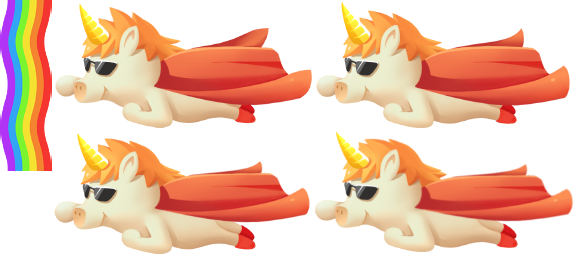
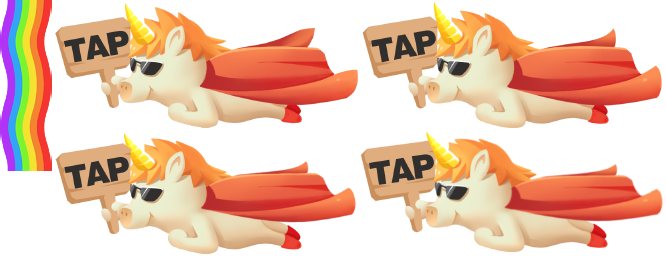
ad

diff --git a/Celer-Game2.0/assets/Scripts/Ad/AdLayer.ts b/Celer-Game2.0/assets/Scripts/Ad/AdLayer.ts
@@ -1,0 +1,152 @@
+// Learn TypeScript:
+//  - [Chinese] https://docs.cocos.com/creator/manual/zh/scripting/typescript.html
+//  - [English] http://www.cocos2d-x.org/docs/creator/manual/en/scripting/typescript.html
+// Learn Attribute:
+//  - [Chinese] https://docs.cocos.com/creator/manual/zh/scripting/reference/attributes.html
+//  - [English] http://www.cocos2d-x.org/docs/creator/manual/en/scripting/reference/attributes.html
+// Learn life-cycle callbacks:
+//  - [Chinese] https://docs.cocos.com/creator/manual/zh/scripting/life-cycle-callbacks.html
+//  - [English] http://www.cocos2d-x.org/docs/creator/manual/en/scripting/life-cycle-callbacks.html
+
+import { AdController } from "../Controller/AdController";
+import {
+  CnicornWatchFailSignal,
+  FlyCnicornClickSignal,
+  RemoveFlyCnicornSignal,
+} from "./FlyCnicornAd";
+import { HideWildAdButtonSignal, WildAdButtonClick } from "./WildAdButton";
+
+const { ccclass, property } = cc._decorator;
+
+enum AdType {
+  Cnicorn,
+  Sun,
+}
+@ccclass
+export default class AdLayer extends cc.Component {
+  @property(cc.SpriteAtlas)
+  AdAtlas: cc.SpriteAtlas = null;
+
+  get Panel() {
+    return this.node.getChildByName("NormalPanel");
+  }
+
+  get WatchAd() {
+    return this.Panel.getChildByName("btn_get");
+  }
+
+  get BackToGame() {
+    return this.Panel.getChildByName("btn_back");
+  }
+
+  get Content() {
+    return this.Panel.getChildByName("font_freeprop1").getComponent(cc.Sprite);
+  }
+
+  get SubContent() {
+    return this.Panel.getChildByName("font_freeprop2").getComponent(cc.Sprite);
+  }
+
+  get Title() {
+    return this.Panel.getChildByName("bg_title_freeprop").getComponent(
+      cc.Sprite
+    );
+  }
+
+  get FailTip() {
+    return this.node.getChildByName("FailTip");
+  }
+
+  onLoad() {
+    this.node.active = false;
+    this.node.scale = 1;
+
+    WildAdButtonClick.inst.addListener(() => {
+      this.Show(AdType.Sun);
+    }, this);
+
+    FlyCnicornClickSignal.inst.addListener(() => {
+      this.Show(AdType.Cnicorn);
+    }, this);
+
+    this.BackToGame.on(
+      cc.Node.EventType.TOUCH_END,
+      () => {
+        setTimeout(() => {
+          this.node.active = false;
+        }, 0);
+      },
+      this
+    );
+  }
+
+  onAdFinish(adUnitId: string) {
+    if (adUnitId == AdType[AdType.Sun]) {
+      CELER_X && HideWildAdButtonSignal.inst.dispatch();
+    } else {
+      CELER_X && RemoveFlyCnicornSignal.inst.dispatch();
+    }
+
+    setTimeout(() => {
+      this.node.active = false;
+    }, 0);
+  }
+
+  onAdFailed(adUnitId: string) {
+    this.FailTip.active = true;
+    this.Panel.active = false;
+    if (adUnitId == AdType[AdType.Cnicorn]) {
+      CnicornWatchFailSignal.inst.dispatch();
+    }
+    setTimeout(() => {
+      this.node.active = false;
+    }, 2000);
+  }
+
+  Show(type: AdType) {
+    if (this.node.active == true) return;
+    this.node.active = true;
+    this.FailTip.active = false;
+    this.Panel.active = true;
+    this.WatchAd.active = true;
+
+    if (type == AdType.Sun) {
+      this.Title.spriteFrame = this.AdAtlas.getSpriteFrame("bg_title_freeprop");
+      this.Content.spriteFrame = this.AdAtlas.getSpriteFrame("font_freeprop1");
+      this.SubContent.spriteFrame = this.AdAtlas.getSpriteFrame(
+        "font_freeprop2"
+      );
+      this.WatchAd.getComponent(
+        cc.Sprite
+      ).spriteFrame = this.AdAtlas.getSpriteFrame("btn_get");
+    } else {
+      this.Title.spriteFrame = this.AdAtlas.getSpriteFrame("font_title_clear");
+      this.Content.spriteFrame = this.AdAtlas.getSpriteFrame("font_clear1");
+      this.SubContent.spriteFrame = this.AdAtlas.getSpriteFrame("font_clear2");
+      this.WatchAd.getComponent(
+        cc.Sprite
+      ).spriteFrame = this.AdAtlas.getSpriteFrame("btn_to clear");
+    }
+
+    this.WatchAd.once(
+      cc.Node.EventType.TOUCH_END,
+      () => {
+        setTimeout(() => {
+          this.WatchAd.active = false;
+        }, 0);
+        AdController.inst.showAd(
+          AdType[type],
+          (adUnitId: string) => {
+            console.log(" watch ad success:", adUnitId);
+            this.onAdFinish(adUnitId);
+          },
+          (adUnitId: string) => {
+            console.log(" watch ad fail:", adUnitId);
+            this.onAdFailed(adUnitId);
+          }
+        );
+      },
+      this
+    );
+  }
+}

diff --git a/Celer-Game2.0/assets/Scripts/Ad/FlyCnicornAd.ts b/Celer-Game2.0/assets/Scripts/Ad/FlyCnicornAd.ts
@@ -8,6 +8,7 @@
 //  - [Chinese] https://docs.cocos.com/creator/manual/zh/scripting/life-cycle-callbacks.html
 //  - [English] http://www.cocos2d-x.org/docs/creator/manual/en/scripting/life-cycle-callbacks.html
 
+import { Random } from "../Utils/Random";
 import { BaseSignal } from "../Utils/Signal";
 
 const { ccclass, property } = cc._decorator;
@@ -17,21 +18,27 @@ export enum FlyOrigin {
   Right,
 }
 
+export class CnicornWatchFailSignal extends BaseSignal {}
+export class RemoveFlyCnicornSignal extends BaseSignal {}
 export class FlyCnicornAdDispearSignal extends BaseSignal {}
 export class FlyCnicornClickSignal extends BaseSignal {}
 
 export class ShowFlyCnicornSignal extends BaseSignal {}
 @ccclass
 export default class FlyCnicornAd extends cc.Component {
+  public static ShowTimeRest = 0;
   get Fly() {
     return this.node.getChildByName("Fly");
   }
 
   reuse(origin: FlyOrigin, y: number) {
+    console.log("ShowFlyCnicorn:", FlyOrigin[origin]);
     this.node.opacity = 255;
+    this.Fly.opacity = 255;
     let target = 0;
     this.Fly.y = y;
-    if (origin == FlyOrigin.Left) {
+    origin = FlyOrigin.Right;
+    if (false) {
       this.Fly.scaleX = 1;
       this.Fly.x = -940;
       target = 940;
@@ -52,6 +59,7 @@ export default class FlyCnicornAd extends cc.Component {
         ),
         cc.callFunc(() => {
           FlyCnicornAdDispearSignal.inst.dispatch();
+          FlyCnicornAd.ShowTimeRest = 10;
         })
       )
     );
@@ -60,10 +68,17 @@ export default class FlyCnicornAd extends cc.Component {
   unuse() {}
 
   onLoad() {
-    if (CC_DEBUG) {
-      this.reuse(FlyOrigin.Right, 0);
-    }
+    RemoveFlyCnicornSignal.inst.addOnce(() => {
+      ShowFlyCnicornSignal.inst.removeTarget(this);
+      CnicornWatchFailSignal.inst.removeTarget(this);
+      this.node.removeFromParent(true);
+    }, this);
 
+    CnicornWatchFailSignal.inst.addListener(() => {
+      FlyCnicornAd.ShowTimeRest = 10;
+    }, this);
+
+    FlyCnicornAd.ShowTimeRest = 10;
     ShowFlyCnicornSignal.inst.addListenerTwo(
       (origin: FlyOrigin, originY: number) => {
         this.reuse(origin, originY);
@@ -77,4 +92,6 @@ export default class FlyCnicornAd extends cc.Component {
     this.Fly.runAction(cc.fadeOut(0.2));
     FlyCnicornClickSignal.inst.dispatch();
   }
+
+  update(dt: number) {}
 }

diff --git a/Celer-Game2.0/assets/Scripts/Ad/WildAdButton.ts b/Celer-Game2.0/assets/Scripts/Ad/WildAdButton.ts
@@ -1,0 +1,55 @@
+// Learn TypeScript:
+//  - [Chinese] https://docs.cocos.com/creator/manual/zh/scripting/typescript.html
+//  - [English] http://www.cocos2d-x.org/docs/creator/manual/en/scripting/typescript.html
+// Learn Attribute:
+//  - [Chinese] https://docs.cocos.com/creator/manual/zh/scripting/reference/attributes.html
+//  - [English] http://www.cocos2d-x.org/docs/creator/manual/en/scripting/reference/attributes.html
+// Learn life-cycle callbacks:
+//  - [Chinese] https://docs.cocos.com/creator/manual/zh/scripting/life-cycle-callbacks.html
+//  - [English] http://www.cocos2d-x.org/docs/creator/manual/en/scripting/life-cycle-callbacks.html
+
+import { BaseSignal } from "../Utils/Signal";
+
+const { ccclass, property } = cc._decorator;
+
+export class HideWildAdButtonSignal extends BaseSignal {}
+export class WildAdButtonClick extends BaseSignal {}
+
+export class WildButtonReadySignal extends BaseSignal {}
+@ccclass
+export default class WildAdButton extends cc.Component {
+  onLoad() {
+    this.node.active =
+      cc.sys.isMobile && cc.sys.isBrowser && cc.sys.os == cc.sys.OS_ANDROID;
+
+    this.node.scale = 0;
+
+    WildButtonReadySignal.inst.addOnce(() => {
+      console.log(" Wild button :", this.node.active);
+      if (this.node.active) {
+        this.node.getComponent(cc.Button).transition =
+          cc.Button.Transition.NONE;
+        this.node.runAction(
+          cc.sequence(
+            cc.scaleTo(0.1, 1),
+            cc.callFunc(() => {
+              this.node.getComponent(cc.Button).transition =
+                cc.Button.Transition.SCALE;
+              this.node.on(
+                cc.Node.EventType.TOUCH_END,
+                () => {
+                  WildAdButtonClick.inst.dispatch();
+                },
+                this
+              );
+            })
+          )
+        );
+      }
+    }, this);
+
+    HideWildAdButtonSignal.inst.addListener(() => {
+      this.node.active = false;
+    }, this);
+  }
+}
